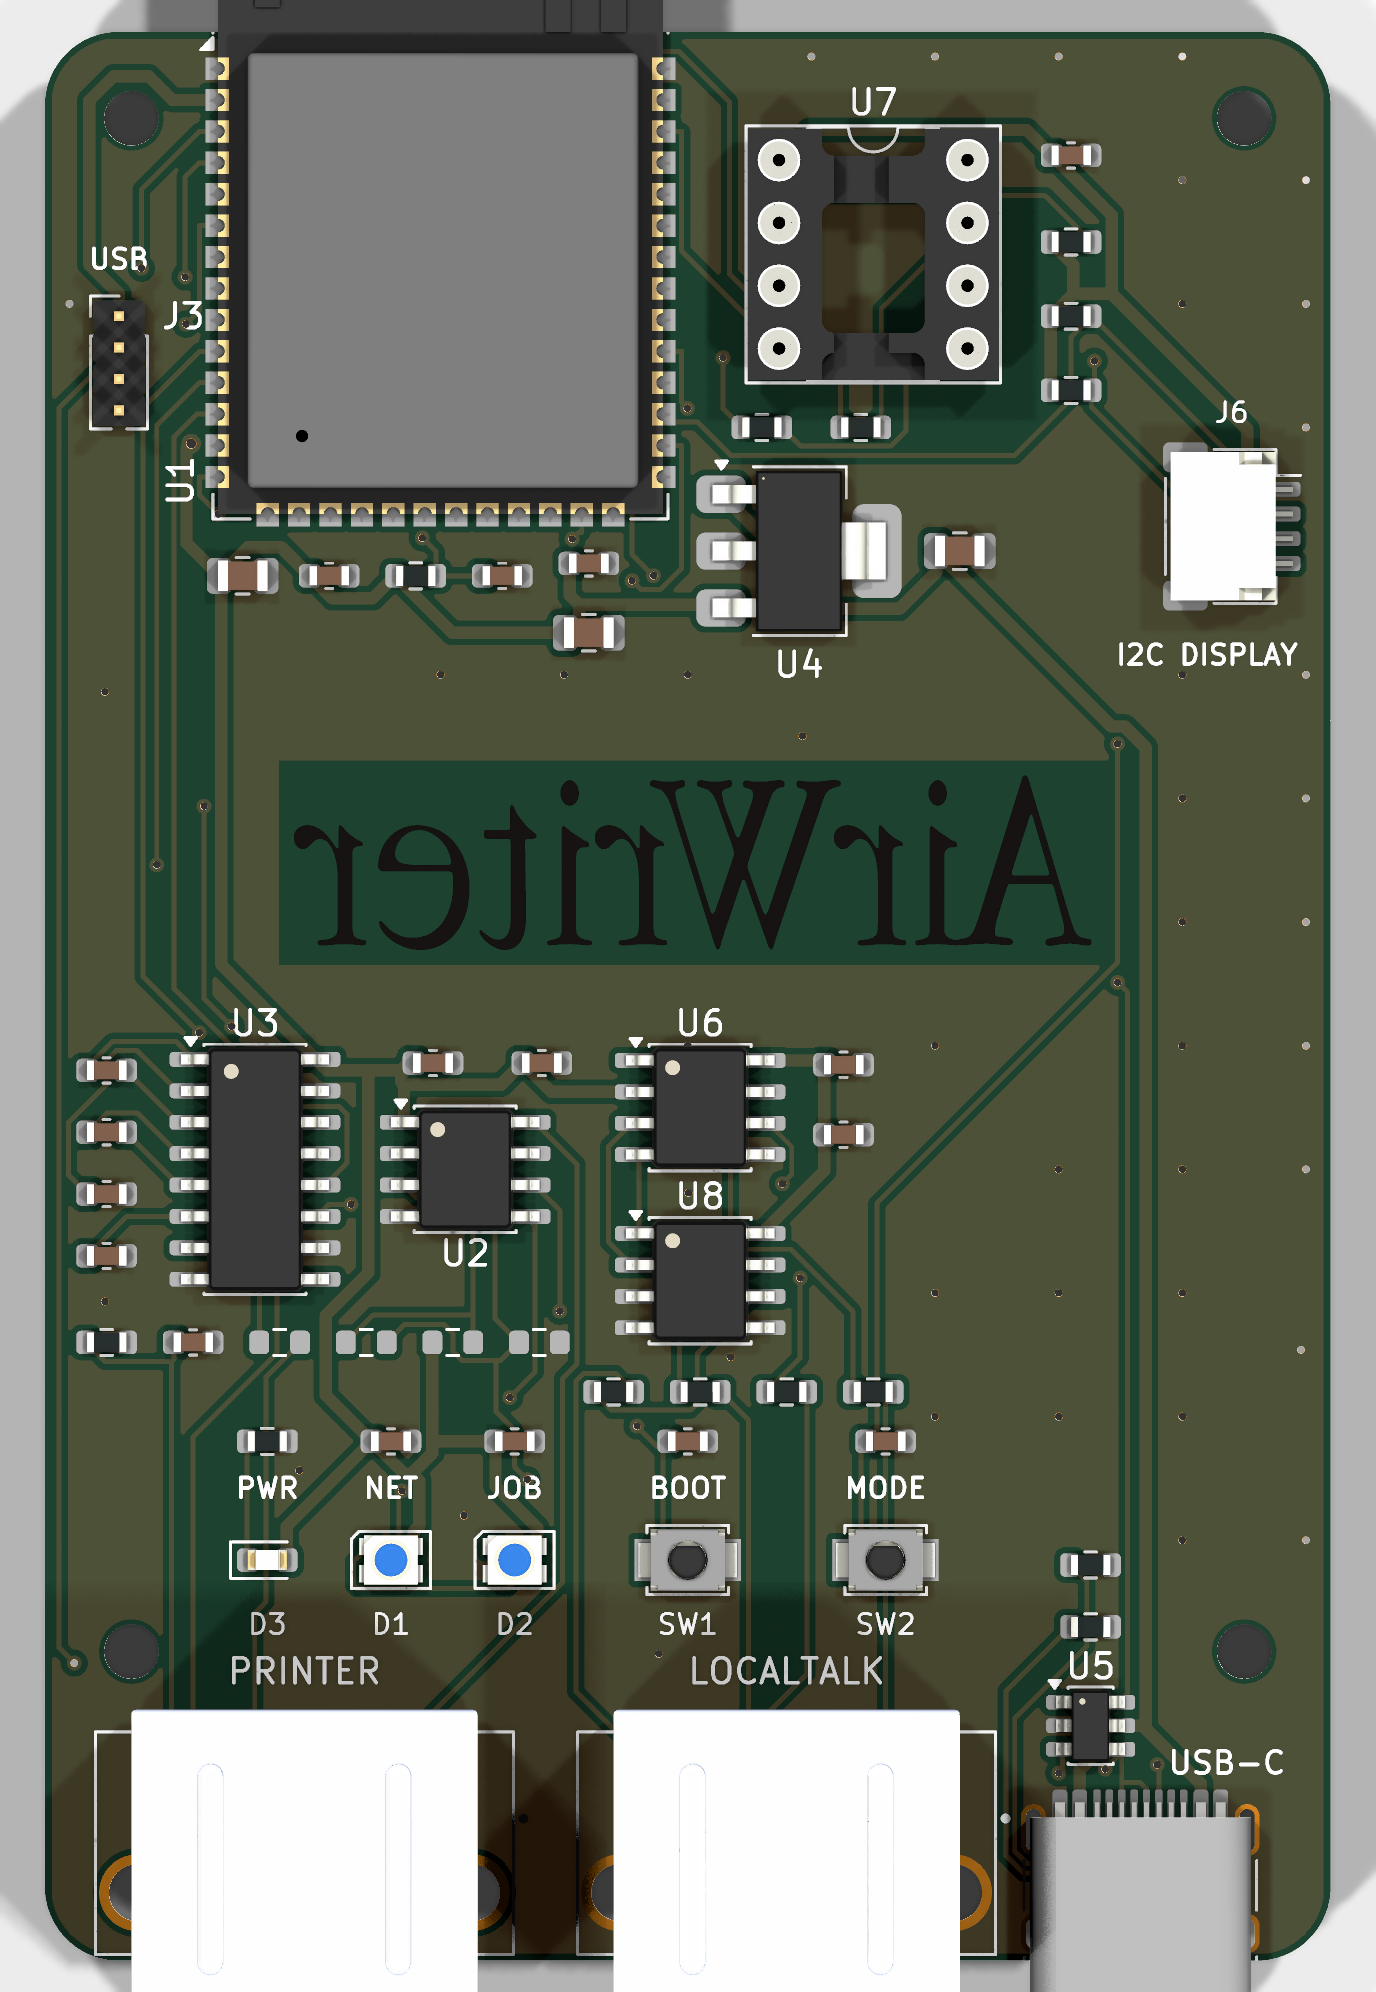
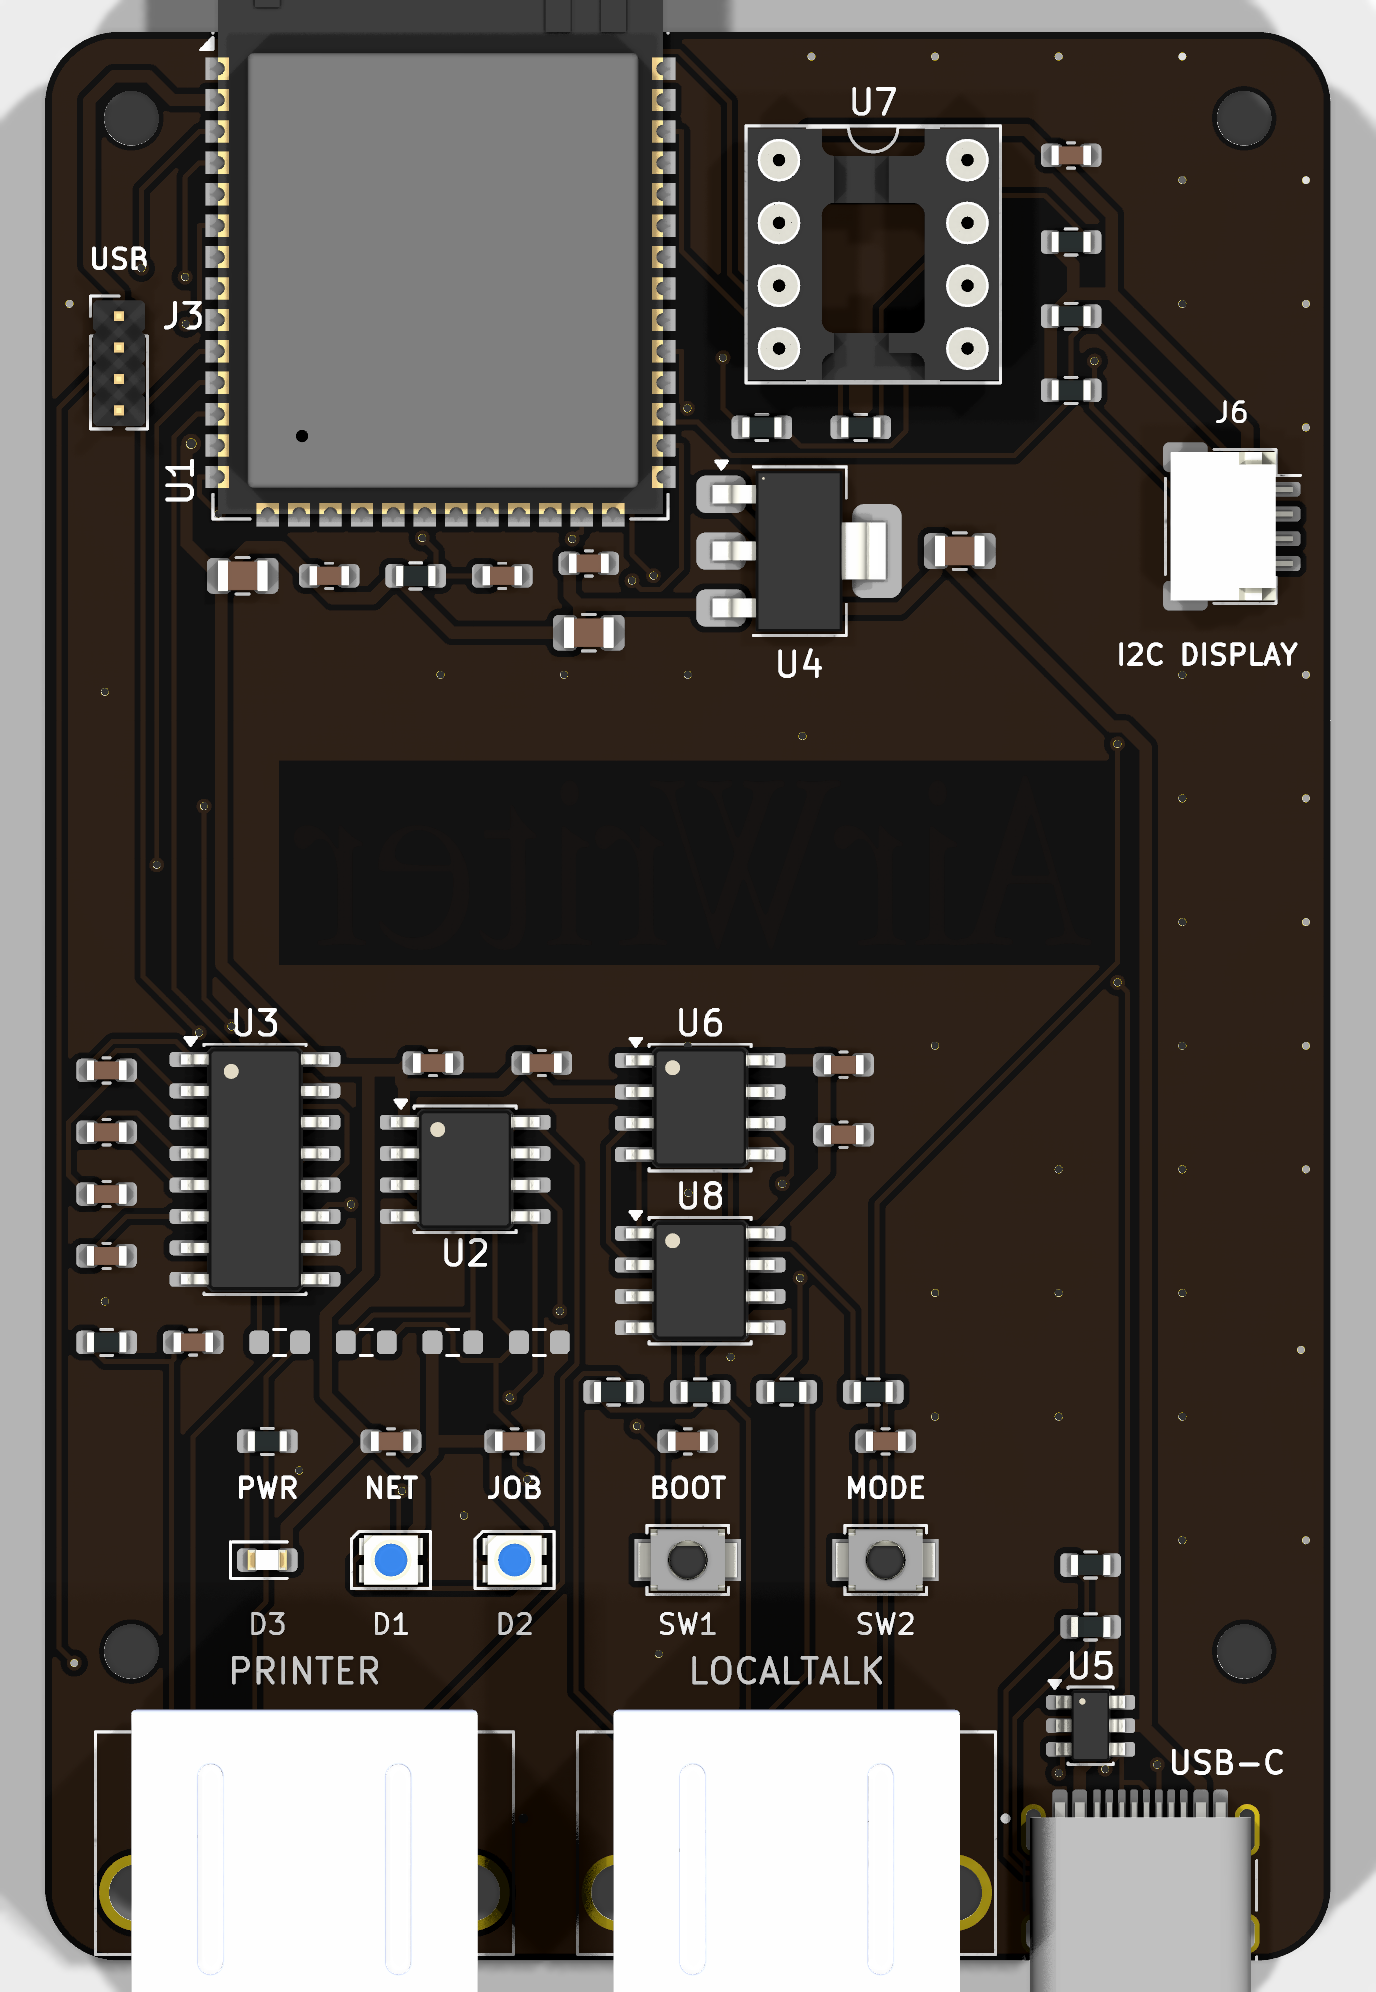
Order it in matte black with ENIG, and record that in the stackup
The board had no stackup block at all, so KiCad had no idea what it was going to be
made of and renders showed a default green HASL board. It now carries a real one:
1.6mm two-layer, 1oz copper, matte black soldermask both faces, white silkscreen,
ENIG.

ENIG is not vanity. J1 is a USB-C receptacle at 0.5mm pitch and HASL is molten solder
blown flat with an air knife -- the surface is uneven enough that plenty of fabs will
not guarantee it below 0.5mm pitch. The board wants ENIG whatever the back looks
like. It also stops exposed copper tarnishing, which now matters: the back is a
display surface and may end up carrying capacitive touch pads. About +$25 on the
order, roughly one pair of mini-DINs.

Matte black changes what the artwork is made of. The palette is four materials now --
black mask, white silk, gold copper where the mask opens, and translucent tan
fibreglass where both are absent. Worth designing to rather than discovering.

One rendering caveat recorded in the handoff: kicad-cli tints bare FR4 by the mask
colour, so the logo window renders nearly black. The real board will not look like
that; tan fibreglass against matte black is a hard contrast.

Gerbers are unchanged -- they carry no colour, the mask is an order option. Only the
render and the STEP export move. DRC still one known violation.

diff --git a/docs/HANDOFF.md b/docs/HANDOFF.md
@@ -362,8 +362,31 @@ EOF
 enough to change design decisions. MAX3232 is $9.98 at Mouser and $0.91 at LCSC. MAX3490 is $6.61 at
 Digi-Key and $0.687 at LCSC.
 
-Order the board as **52 x 78mm, 2 layer, 1.6mm FR4, 1oz copper, HASL**. Nothing needs a premium
-process.
+Order the board as **52 x 78mm, 2 layer, 1.6mm FR4, 1oz copper, matte black soldermask, ENIG**.
+
+**ENIG is not vanity here.** J1 is a USB-C receptacle at 0.5mm pitch, and HASL is molten solder
+blown flat with an air knife — the surface it leaves is uneven enough that plenty of fabs will not
+guarantee it below 0.5mm pitch. ENIG is flat. The board wants it regardless of how the back looks.
+It also stops exposed copper tarnishing, which matters now that the back is a display surface and
+may carry capacitive touch pads. Reckon on about **+$25** on the order — roughly one pair of
+mini-DINs, against a build with $13 of parts per board.
+
+**The finish and mask colour are recorded in the board's stackup**, so `kicad-cli pcb render` and
+the STEP export show what will actually arrive. Gerbers carry no colour; the mask is an order
+option, and the stackup is the thing that stops it being forgotten at the cart.
+
+**The artwork palette is now four materials**, which is worth designing to rather than discovering:
+
+| | |
+|---|---|
+| Matte black | soldermask, the ground |
+| White | silkscreen |
+| Gold | exposed copper — a mask opening over the pour |
+| Translucent tan | bare FR4, where copper and mask are both absent. This is the one that glows |
+
+Note that `kicad-cli pcb render` tints bare FR4 by the mask colour, so the logo window looks nearly
+black in renders. It will not look like that on the board — tan fibreglass against matte black is a
+hard contrast, and it is the whole point of the window.
 
 **Protect the 0.30mm drill floor.** PCBWay's standard minimum is 0.30mm and 0.20mm is an upgraded
 spec — a documented case went from $5 to $65 for ten boards. KiCad's stock ESP32-S3-WROOM-1 footprint

diff --git a/docs/SPEC.md b/docs/SPEC.md
@@ -48,7 +48,7 @@ than hand-writing s-expressions from memory.
 - A 3D render PNG for the README
 
 Two-layer, 1.6mm FR4, 1oz copper, HASL. Standard process — no controlled impedance, no
-blind vias. Outline 52 x 78mm, rectangular with 3mm corner radii and four M2
+blind vias, matte black soldermask, ENIG finish. Outline 52 x 78mm, rectangular with 3mm corner radii and four M2
 mounting holes inset 3mm from the corners.
 
 **As built: 32 x 54mm** (1728mm² against the target's 1925), rectangular, four M2 holes.
